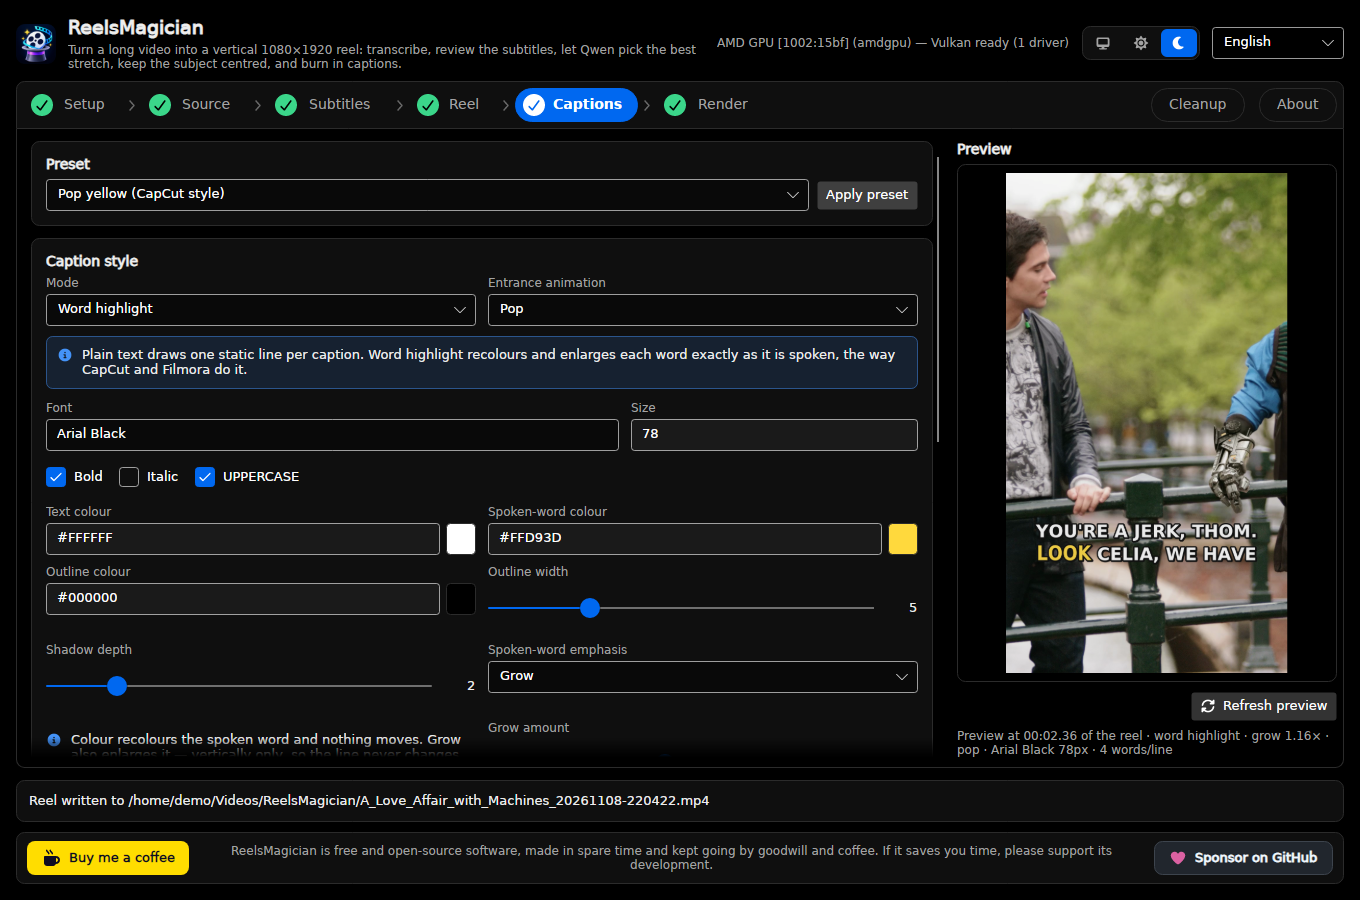
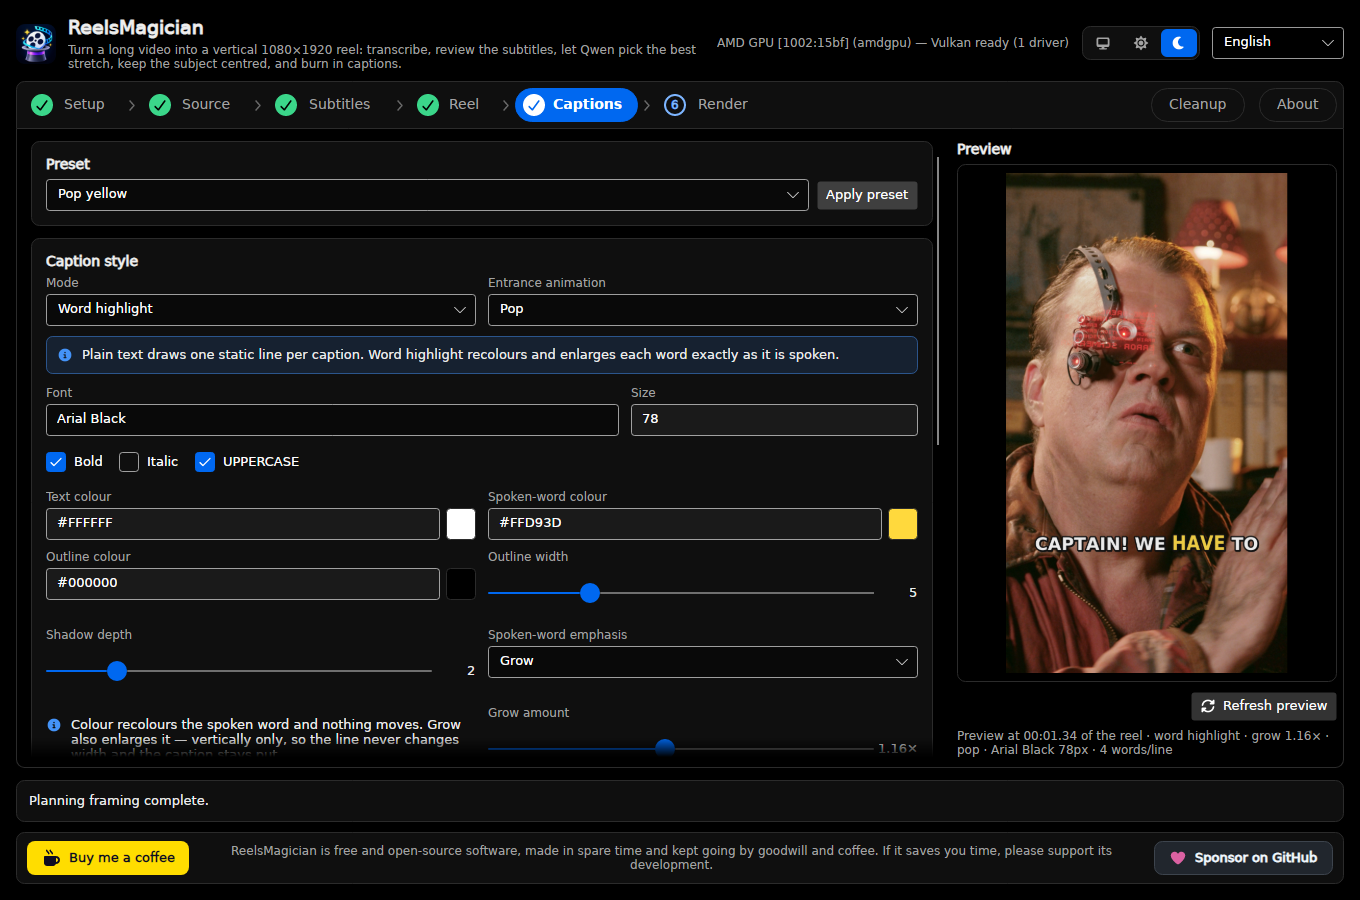
Add a step-by-step guide to the README, and name no other video apps (#78)
The README gets "Your first reel, step by step" between the known limitations and How to use it:
an overview of the way to a reel as dots joined by arrows (get the app, the six steps, done),
then one card per step. Each card has the step's dot on a dotted rail that leads to the next,
its title, two or three short lettered instructions, and the app's window at that step with the
controls to use lit up and ringed, marked A, B, C in the order to press them and joined by
dotted arrows. It starts with getting the app (the installer or the AppImage, SmartScreen's
More info) and ends with three frames of the finished reel. Every image comes in a light and a
dark variant, and its alt text carries the whole instruction.

The cards come from the real app on Linux, run headless on Tears of Steel with its own subtitles,
as the README's screenshots are. The markers sit where the window reported its buttons, and the
cards are drawn in HTML with the app's Font Awesome icons and the Inter typeface; both are
credited in THIRD-PARTY-NOTICES.md. The README's other screenshots and the three reel frames are
retaken from the same run, so the Captions screenshots show the preset's new name.

Neither the docs nor the interface name other video apps any more: the "Pop yellow" preset
loses its brackets in both languages, the note under Mode on the Captions tab and the README
describe word highlighting by what it does, and two code comments follow. GLOSSARY.md records
the rule.

diff --git a/src/ReelsMagician.Core/Rendering/SubtitleStyle.cs b/src/ReelsMagician.Core/Rendering/SubtitleStyle.cs
@@ -9,7 +9,7 @@ public enum CaptionMode
     /// <summary>One static line per caption — clean and unobtrusive.</summary>
     PlainText,
 
-    /// <summary>The spoken word is recoloured and scaled up, the way CapCut and Filmora do it.</summary>
+    /// <summary>The spoken word is recoloured and scaled up as it is spoken.</summary>
     WordHighlight,
 }
 
@@ -114,7 +114,7 @@ public sealed class SubtitleStyle
         },
         new()
         {
-            Name = "Pop yellow (CapCut style)",
+            Name = "Pop yellow",
             Mode = CaptionMode.WordHighlight,
             Animation = CaptionAnimation.Pop,
             FontName = "Arial Black",

diff --git a/src/ReelsMagician.App/Localization/MarkupExtensions.cs b/src/ReelsMagician.App/Localization/MarkupExtensions.cs
@@ -63,7 +63,7 @@ public sealed class FormatExtension : MarkupExtension
 
 /// <summary>
 /// <c>{l:TrValue Name, Prefix=Preset_}</c>: the interface's text for a key made of a prefix and a
-/// bound English name, such as <c>Preset_PopYellowCapCutStyle</c> for a preset, or the name itself
+/// bound English name, such as <c>Preset_PopYellow</c> for a preset, or the name itself
 /// when there is no such key, as for a style of the user's own. Follows a switch of language.
 /// </summary>
 public sealed class TrValueExtension : MarkupExtension

diff --git a/src/ReelsMagician.Core/Rendering/AssBuilder.cs b/src/ReelsMagician.Core/Rendering/AssBuilder.cs
@@ -22,7 +22,7 @@ public sealed class CaptionGroup
 /// Word highlighting is done by emitting one event per word, each carrying the whole line with
 /// override tags on the active word. ASS karaoke tags can only swap between two style colours,
 /// which cannot scale the word or animate it — one event per word can, and that is what makes
-/// the result look like CapCut or Filmora rather than a 90s karaoke machine.
+/// the spoken word pop rather than look like a 90s karaoke machine.
 /// </summary>
 public static class AssBuilder
 {

diff --git a/src/ReelsMagician.Core/Localization/Lang.cs b/src/ReelsMagician.Core/Localization/Lang.cs
@@ -45,7 +45,7 @@ public readonly struct Lang
 
     /// <summary>
     /// A name as part of a resource key, its letters and digits with each word capitalised: the
-    /// key of a text looked up by an English name, such as <c>Preset_PopYellowCapCutStyle</c>.
+    /// key of a text looked up by an English name, such as <c>Preset_PopYellow</c>.
     /// </summary>
     public static string Slug(string name)
     {

diff --git a/README.md b/README.md
@@ -47,10 +47,10 @@
 </table>
 
 <p align="center">
-  <img src="docs/screenshots/reel-frame-1.jpg" width="220" alt="A frame of the finished reel: Celia on the bridge, cropped to 9:16, with a caption whose spoken word is yellow">
-  <img src="docs/screenshots/reel-frame-2.jpg" width="220" alt="A later frame: a man with a cybernetic eye, centred, with the caption We're on in one">
-  <img src="docs/screenshots/reel-frame-3.jpg" width="220" alt="The last clip: an older man in close-up, with the caption Maybe we can too">
-  <br><sub>Three frames of the 51-second reel made in the screenshots above.</sub>
+  <img src="docs/screenshots/reel-frame-1.jpg" width="220" alt="A frame of the finished reel: a young man in close-up, cropped to 9:16, with the caption The world's changed, Celia, its spoken word in yellow">
+  <img src="docs/screenshots/reel-frame-2.jpg" width="220" alt="A later frame: a grey-haired man in close-up, with the caption Maybe we can too">
+  <img src="docs/screenshots/reel-frame-3.jpg" width="220" alt="The last scene: a man in glasses, lit in violet, with the caption Memory overwrite complete">
+  <br><sub>Three frames of the 45-second reel made in the screenshots above.</sub>
 </p>
 
 <p align="center"><sub>The screenshots show ReelsMagician on Linux, in the light and the dark theme (GitHub picks the one you use), working on
@@ -64,7 +64,7 @@ ReelsMagician is a desktop app for Windows and Linux. Point it at an MP4 or a co
 2. lets you **review and correct the subtitles**;
 3. asks a local **Qwen** model to pick the most compelling stretch, and proposes several reels of the length you want;
 4. **keeps the subject centred** in the vertical crop: a face, else a person, else whatever moves on screen;
-5. joins the clips with a transition too short to smear the audio, and **burns in captions**: plain, or with each word highlighted as it is spoken, the way CapCut and Filmora do it.
+5. joins the clips with a transition too short to smear the audio, and **burns in captions**: plain, or with each word highlighted as it is spoken.
 
 Everything runs locally. Nothing is uploaded.
 
@@ -77,6 +77,7 @@ Everything runs locally. Nothing is uploaded.
 - [Support ReelsMagician](#support-reelsmagician)
 - [System requirements](#system-requirements)
 - [Known limitations](#known-limitations)
+- [Your first reel, step by step](#your-first-reel-step-by-step)
 - [How to use it](#how-to-use-it)
   - [Installing it](#installing-it)
   - [First start](#first-start)
@@ -170,6 +171,76 @@ warns when this computer probably has too little.
 - **Footage with no clear subject**: the crop follows the visual energy, and can wander.
 - **Video links rely on yt-dlp and Deno**, third-party tools that follow the sites' changes. You are
   responsible for having the right to download each video you load from a link.
+
+## Your first reel, step by step
+
+New to ReelsMagician? This is the whole way from the
+[download](https://github.com/ideaconnect/reels-magician/releases) to a finished reel, in the app's
+own window. In each step the lettered dots mark what to press, in order, and the dotted arrows lead
+from one to the next. [How to use it](#how-to-use-it) says more about every step.
+
+<p align="center">
+  <picture>
+    <source media="(prefers-color-scheme: dark)" srcset="docs/screenshots/guide-overview-dark.png">
+    <img src="docs/screenshots/guide-overview-light.png" alt="The way to a reel at a glance: get the app, then step 1 Setup (about 6 GB, once), 2 Source (pick your video), 3 Subtitles (check the words), 4 Reel (pick a proposal), 5 Captions (choose a look) and 6 Render (one click), and the 1080×1920 reel is done">
+  </picture>
+</p>
+
+<p align="center">
+  <picture>
+    <source media="(prefers-color-scheme: dark)" srcset="docs/screenshots/guide-0-get-the-app-dark.png">
+    <img src="docs/screenshots/guide-0-get-the-app-light.png" alt="Before you start, get the app. A: open the Releases page of this repository and download the file for your system. B: on Windows, run ReelsMagician-win-x64-Setup.exe, which installs for your account with no admin rights; SmartScreen asks once, so choose More info, then Run anyway. C: on Linux, make ReelsMagician-x86_64.AppImage executable (chmod +x) and start it in a Wayland session">
+  </picture>
+</p>
+
+<p align="center">
+  <picture>
+    <source media="(prefers-color-scheme: dark)" srcset="docs/screenshots/guide-1-setup-dark.png">
+    <img src="docs/screenshots/guide-1-setup-light.png" alt="Step 1 of 6, once: set it up. A: open Setup and press Install everything missing; it downloads about 6 GB, once. B: wait until every line of the list has a green check, then go on to Source">
+  </picture>
+</p>
+
+<p align="center">
+  <picture>
+    <source media="(prefers-color-scheme: dark)" srcset="docs/screenshots/guide-2-source-dark.png">
+    <img src="docs/screenshots/guide-2-source-light.png" alt="Step 2 of 6: pick your video. A: press Browse… and choose an MP4, or paste a link into the box; Reel length sets how long the reel will be. B: press Load source. C: check the topic, which steers what gets picked, and press Transcribe">
+  </picture>
+</p>
+
+<p align="center">
+  <picture>
+    <source media="(prefers-color-scheme: dark)" srcset="docs/screenshots/guide-3-subtitles-dark.png">
+    <img src="docs/screenshots/guide-3-subtitles-light.png" alt="Step 3 of 6: check the subtitles. A: read through the lines and fix any wrong word right where it is. B: press Analyse and pick the reel; Qwen reads the whole transcript and proposes reels, which can take a few minutes">
+  </picture>
+</p>
+
+<p align="center">
+  <picture>
+    <source media="(prefers-color-scheme: dark)" srcset="docs/screenshots/guide-4-reel-dark.png">
+    <img src="docs/screenshots/guide-4-reel-light.png" alt="Step 4 of 6: pick your reel. A: click the proposal you like best; each shows its opening line, why it was picked and its clips. B: press Plan framing for this reel, and the crop will follow the speaker in every clip">
+  </picture>
+</p>
+
+<p align="center">
+  <picture>
+    <source media="(prefers-color-scheme: dark)" srcset="docs/screenshots/guide-5-captions-dark.png">
+    <img src="docs/screenshots/guide-5-captions-light.png" alt="Step 5 of 6: choose the captions. A: pick a look under Preset. B: press Apply preset; fonts, colours and sizes can all be changed below it. C: press Refresh preview to see a real frame of your reel with its captions">
+  </picture>
+</p>
+
+<p align="center">
+  <picture>
+    <source media="(prefers-color-scheme: dark)" srcset="docs/screenshots/guide-6-render-dark.png">
+    <img src="docs/screenshots/guide-6-render-light.png" alt="Step 6 of 6: render it. A: press Render the reel; when it is done, the bar at the bottom says where the reel was saved. B: Copy path copies its location, ready for an upload page">
+  </picture>
+</p>
+
+<p align="center">
+  <picture>
+    <source media="(prefers-color-scheme: dark)" srcset="docs/screenshots/guide-7-done-dark.png">
+    <img src="docs/screenshots/guide-7-done-light.png" alt="Done: your reel is ready, a 1080×1920 MP4 with the captions burned in, in Videos/ReelsMagician, to post wherever you share reels. Three frames of it show the captions, the spoken word in yellow">
+  </picture>
+</p>
 
 ## How to use it
 
@@ -523,8 +594,8 @@ ahead of a real pause is judged by the hold it will actually get, not by the who
 
 **Word highlighting done properly.** ASS karaoke tags can only swap between two style colours —
 they cannot scale a word or animate it. So each caption emits one event per word, carrying the
-whole line with override tags on the word being spoken. That is what produces the CapCut look
-rather than a karaoke machine.
+whole line with override tags on the word being spoken. That is what lets the spoken word pop
+instead of only changing colour, as on a karaoke machine.
 
 **The caption never moves.** The spoken word is emphasised with colour and, optionally, a
 *vertical* grow — never a horizontal one. `\fscx` changes a glyph's advance width, so scaling the

diff --git a/CHANGELOG.md b/CHANGELOG.md
@@ -17,6 +17,7 @@ Changes to ReelsMagician, newest first.
 - **Polish interface:** the whole interface is now in English and Polish. A list beside the theme switch picks **System language**, which is Polish on a Polish system and English on any other, **English** or **Polski**; it switches at once, without a restart, and is remembered. Counts take the form Polish gives them ("1 napis", "3 napisy", "5 napisów"), and sizes, times and numbers on screen are written the Polish way ("22,5 MB"), following your regional settings where they are Polish too. What a machine reads stays as it was in either language: the log, which goes into bug reports, settings.json, and every number given to ffmpeg or written into a caption file. The logic checks now run a second time under Polish regional settings to hold that. The step strip now gives each step its full width again after the language changes, so a longer name is no longer cut.
 - **Windows installer:** each release now comes with `ReelsMagician-win-x64-Setup.exe` beside the zip. It installs the app for your account, with no admin rights, into `%LOCALAPPDATA%\IDCT.ReelsMagician`, puts shortcuts in the Start menu and on the desktop, and lists the app under **Installed apps** in Settings with its publisher, version and icon, so you can uninstall it from there. Uninstalling removes the app and its shortcuts and leaves the data folder, `%LOCALAPPDATA%\ReelsMagician`, with its tools, models and settings, as it is: free the space from the **Cleanup** tab first, or delete the folder afterwards. The installer and the zip share that folder, so moving from the zip to the installer downloads nothing again. The zip stays for anyone who prefers to unpack and run. Neither is signed yet, so SmartScreen still asks once. The installer is built with Velopack, which the About tab lists with its licence, and the release also carries the package and `releases.win.json` that automatic updates will need.
 - **Updates:** once the window is up, at most once a day, the app asks GitHub whether there is a newer version, sending nothing but its own version as `User-Agent: ReelsMagician/<version>`. Without a connection it says nothing, so local videos still work offline, and a development build never asks. A newer version shows in a box in the status area and on the **About** tab, with its release notes as text, and **Update now**, **Later** and **Skip this version**. Nothing is installed until you choose **Update now**, which waits for a running step to finish and asks first while a video is open, as a restart closes it. The installed app on Windows updates through Velopack and starts again in the new version; it can do that from the first release with an installer onwards, as Velopack sees only releases that carry `releases.win.json`. The Linux AppImage downloads the new image beside itself and renames it over the old one, and **Restart now** starts it; in a folder it can't write to, such as `/opt`, and for the Windows zip, the app links to the release page instead. Every download is held to the sha256 digest and size GitHub gives the release asset, and comes over HTTPS from GitHub only; an asset without a digest isn't installed. The **About** tab has **Check for updates** (on), **Include pre-releases** (on, as every release so far is one) and **Check now**.
+- **Caption presets:** the **Pop yellow** preset (**Wyskakujący żółty** in Polish) no longer carries another app's name in brackets, and the note under **Mode** on the **Captions** tab says what word highlighting does instead of comparing it with other apps. The preset itself is unchanged, and the README no longer names other video apps either.
 
 ### Fixed
 

diff --git a/THIRD-PARTY-NOTICES.md b/THIRD-PARTY-NOTICES.md
@@ -106,9 +106,12 @@ those in `packaging/linux/licenses` for its runtime. Keep all of them when you p
 
 ## In the documentation only
 
-The README's screenshots in `docs/screenshots/` show frames of a film that isn't ReelsMagician's.
-They are not part of any build of the app.
+The README's screenshots in `docs/screenshots/` show frames of a film that isn't ReelsMagician's, and
+the images of its step-by-step guide use two Font Awesome icons and the Inter typeface. They are not
+part of any build of the app.
 
 | Content | Licence | Source |
 |---|---|---|
 | Frames of *Tears of Steel* and its English subtitles, in the app's screenshots and the three frames of a reel made from it | CC BY 3.0: (CC) Blender Foundation \| mango.blender.org | https://mango.blender.org/ |
+| The download and check icons of the step-by-step guide's images | Font Awesome Free, CC BY 4.0 | https://fontawesome.com |
+| Inter, the typeface of the step-by-step guide's text | SIL Open Font License 1.1 | https://rsms.me/inter/ |

diff --git a/GLOSSARY.md b/GLOSSARY.md
@@ -71,3 +71,9 @@ _Avoid_: Zapis, tekst mówiony
 **Render** — **render** (the step), **renderowanie** (the work):
 Encoding the finished reel. The step keeps the short loanword, as "Renderowanie" would not fit the step strip at the window's minimum width.
 _Avoid_: Eksport, eksportowanie
+
+### Describing the app
+
+**Word highlight** — **podświetlanie słów**:
+Captions in which each word is recoloured, and may grow, as it is spoken. The docs and the interface describe it, and every other feature, by what it does.
+_Avoid_: Comparisons with other video apps ("the way X does it", "X style"): neither the docs nor the interface name other editing or reel software
